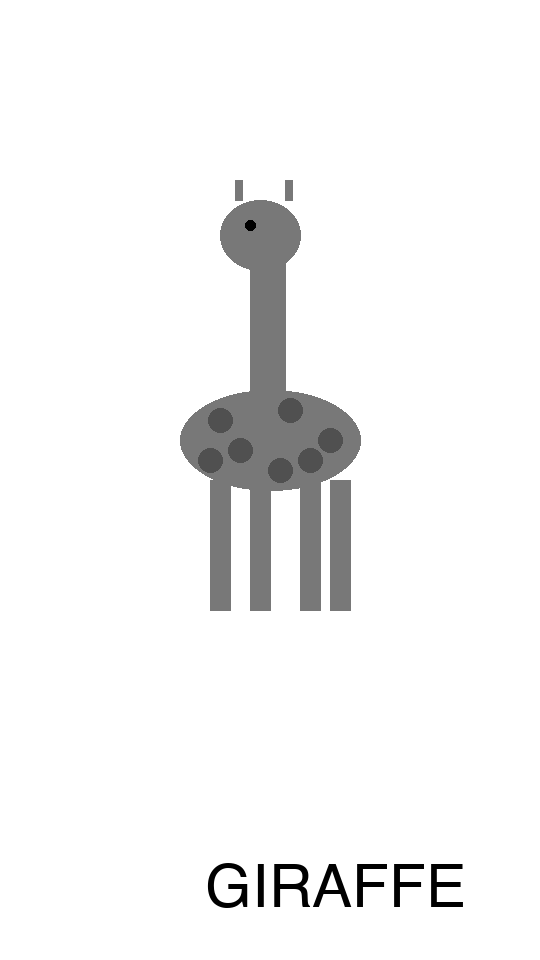
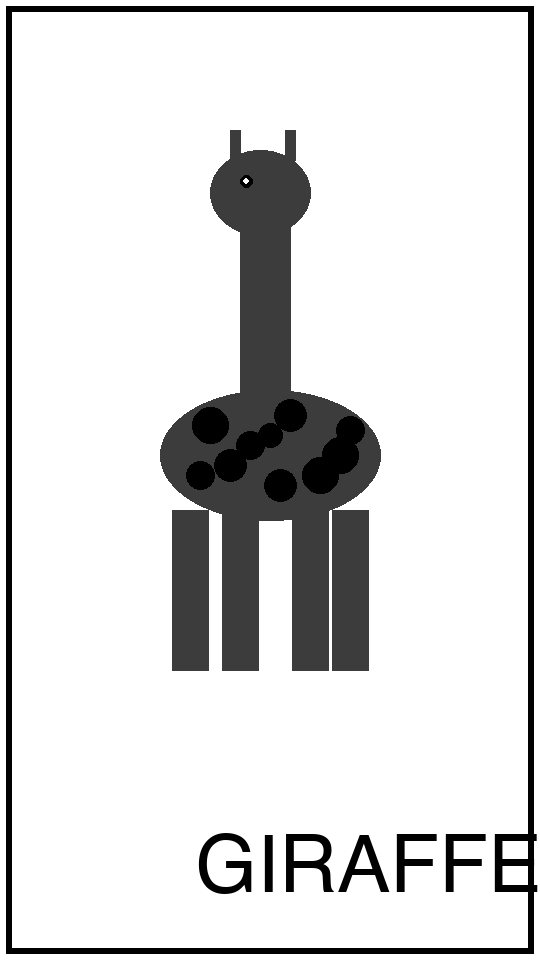
Fix faint images and add thumbnail grid to gallery
Images:
- Regenerate all 6 illustrations with black fills instead of light gray
  (was 7-10% non-white, now 13-20%) so they're clearly visible on e-paper
- Add border frame around each image
- Generate 200x356 thumbnails (35.6 KB each) for the grid view

Gallery grid:
- Replace text-label buttons with 2-column thumbnail grid
- Each thumbnail loaded from LittleFS and drawn via epd_draw_rotated_image
- Bordered cells with fallback '?' if thumbnail file is missing
- Tap zone covers the full thumbnail cell

Changed region(s): [[0.0, 0.0, 1.0, 1.0], [0.2963, 0.125, 0.7111, 0.7188]]

diff --git a/apps/t5_epaper_s3_pro/toy_phone/main/screens.cpp b/apps/t5_epaper_s3_pro/toy_phone/main/screens.cpp
@@ -216,55 +216,87 @@ void GalleryGridScreen::onEnter() {
     drawBackButton();
     drawHeader(cat.name);
 
-    // Grid: 1 column of large buttons, each showing the image filename
-    int btnW = W - 80;
-    int btnH = 100;
-    int btnX = 40;
+    // 2-column thumbnail grid.  Each cell is kThumbW x kThumbH + borders.
+    int cols = 2;
+    int cellW = images::kThumbW + 20;   // thumbnail + padding
+    int cellH = images::kThumbH + 20;
+    int gridW = cols * cellW;
+    int startX = (W - gridW) / 2;
     int startY = 110;
-    int gap = 20;
 
     for (int i = 0; i < cat.count; i++) {
-        int y = startY + i * (btnH + gap);
+        int col = i % cols;
+        int row = i / cols;
+        int x = startX + col * cellW;
+        int y = startY + row * cellH;
 
-        epd::fillRect(btnX, y, btnW, btnH, epd::kWhite);
-        epd::drawHLine(btnX, y, btnW);
-        epd::drawHLine(btnX, y + btnH - 1, btnW);
-        epd::drawVLine(btnX, y, btnH);
-        epd::drawVLine(btnX + btnW - 1, y, btnH);
-
-        // Strip .epd extension for display
-        char label[32];
-        strncpy(label, cat.files[i], sizeof(label) - 1);
-        label[sizeof(label) - 1] = '\0';
-        char *dot = strchr(label, '.');
+        // Load and draw the thumbnail
+        char thumbPath[96];
+        const char *fname = cat.files[i];
+        // Build "thumb_<name>.epd" from "<name>.epd"
+        char thumbName[48];
+        strncpy(thumbName, fname, sizeof(thumbName) - 1);
+        thumbName[sizeof(thumbName) - 1] = '\0';
+        char *dot = strchr(thumbName, '.');
         if (dot) *dot = '\0';
+        snprintf(thumbPath, sizeof(thumbPath), "%s/thumb_%s.epd", cat.dir, thumbName);
 
-        // Capitalize first letter
-        if (label[0] >= 'a' && label[0] <= 'z') label[0] -= 32;
+        File f = LittleFS.open(thumbPath, "r");
+        if (f) {
+            uint8_t *buf = (uint8_t *)malloc(images::kThumbSize);
+            if (buf) {
+                size_t got = f.read(buf, images::kThumbSize);
+                f.close();
+                if (got == images::kThumbSize) {
+                    // Thumbnail border
+                    epd::fillRect(x, y, images::kThumbW + 8, images::kThumbH + 8, epd::kWhite);
+                    epd::drawHLine(x, y, images::kThumbW + 8);
+                    epd::drawHLine(x, y + images::kThumbH + 7, images::kThumbW + 8);
+                    epd::drawVLine(x, y, images::kThumbH + 8);
+                    epd::drawVLine(x + images::kThumbW + 7, y, images::kThumbH + 8);
 
-        epd::drawCenterText(&FiraSans_20, W / 2, y + 40, label);
-        char num[8];
-        snprintf(num, sizeof(num), "#%d", i + 1);
-        epd::drawCenterText(&FiraSans_12, W / 2, y + 70, num);
+                    // Draw thumbnail via epd_draw_rotated_image (handles portrait rotation)
+                    EpdRect area = {.x = x + 4, .y = y + 4,
+                                    .width = images::kThumbW, .height = images::kThumbH};
+                    epd_draw_rotated_image(area, buf, epd::fb);
+                }
+                free(buf);
+            } else {
+                f.close();
+            }
+        } else {
+            // Fallback: empty bordered cell
+            epd::fillRect(x, y, images::kThumbW + 8, images::kThumbH + 8, epd::kWhite);
+            epd::drawHLine(x, y, images::kThumbW + 8);
+            epd::drawHLine(x, y + images::kThumbH + 7, images::kThumbW + 8);
+            epd::drawVLine(x, y, images::kThumbH + 8);
+            epd::drawVLine(x + images::kThumbW + 7, y, images::kThumbH + 8);
+            epd::drawCenterText(&FiraSans_12, x + images::kThumbW / 2 + 4,
+                                y + images::kThumbH / 2, "?");
+        }
     }
 
     epd::drawCenterText(&FiraSans_12, W / 2, epd::kHeight - 30,
-                        "Tap to view  |  < back");
+                        "Tap a picture  |  < back");
 }
 
 bool GalleryGridScreen::onTouch(int x, int y) {
     if (kBackZone.hit(x, y)) return true;  // pop
 
     const auto &cat = images::kCategories[category_];
-    int btnW = epd::kWidth - 80;
-    int btnH = 100;
-    int btnX = 40;
+    int cols = 2;
+    int cellW = images::kThumbW + 20;
+    int cellH = images::kThumbH + 20;
+    int gridW = cols * cellW;
+    int startX = (epd::kWidth - gridW) / 2;
     int startY = 110;
-    int gap = 20;
 
     for (int i = 0; i < cat.count; i++) {
-        int by = startY + i * (btnH + gap);
-        ui::TapZone zone = {btnX, by, btnW, btnH};
+        int col = i % cols;
+        int row = i / cols;
+        int cx = startX + col * cellW;
+        int cy = startY + row * cellH;
+        ui::TapZone zone = {cx, cy, images::kThumbW + 8, images::kThumbH + 8};
         if (zone.hit(x, y)) {
             Serial.printf("[grid] tapped image %d\n", i);
             tappedImage_ = i;

diff --git a/apps/t5_epaper_s3_pro/toy_phone/main/images.h b/apps/t5_epaper_s3_pro/toy_phone/main/images.h
@@ -1,16 +1,26 @@
 // Image list — declares the available images in LittleFS for each category.
-// Images are 540x960 4bpp raw files (259,200 bytes each).
+// Full images are 540x960 4bpp raw (259,200 bytes).
+// Thumbnails are 200x356 4bpp raw (35,600 bytes).
 //
 // To add images:
-//   1. Put source PNG/SVG in images/<category>/
-//   2. Run: python3 scripts/svg-to-epaper.py images/<cat>/<file>.png \
-//             data/images/<cat>/<file>.epd --width 540 --height 960
-//   3. Add the filename (without path) to the array below
-//   4. pio run -e t5_epaper_s3_pro -t uploadfs
+//   1. Put source PNG in images/<category>/
+//   2. Convert full: python3 scripts/svg-to-epaper.py images/<cat>/<file>.png \
+//          data/images/<cat>/<file>.epd --width 540 --height 960
+//   3. Generate thumbnail (see scripts/gen-thumbnails.py)
+//   4. Add the filename to the array below
+//   5. pio run -e t5_epaper_s3_pro -t uploadfs
 
 #pragma once
 
 namespace images {
+
+constexpr int kFullW = 540;
+constexpr int kFullH = 960;
+constexpr int kFullSize = kFullW * kFullH / 2;  // 259,200 bytes
+
+constexpr int kThumbW = 200;
+constexpr int kThumbH = 356;
+constexpr int kThumbSize = kThumbW * kThumbH / 2;  // 35,600 bytes
 
 struct Category {
     const char *name;           // display label
